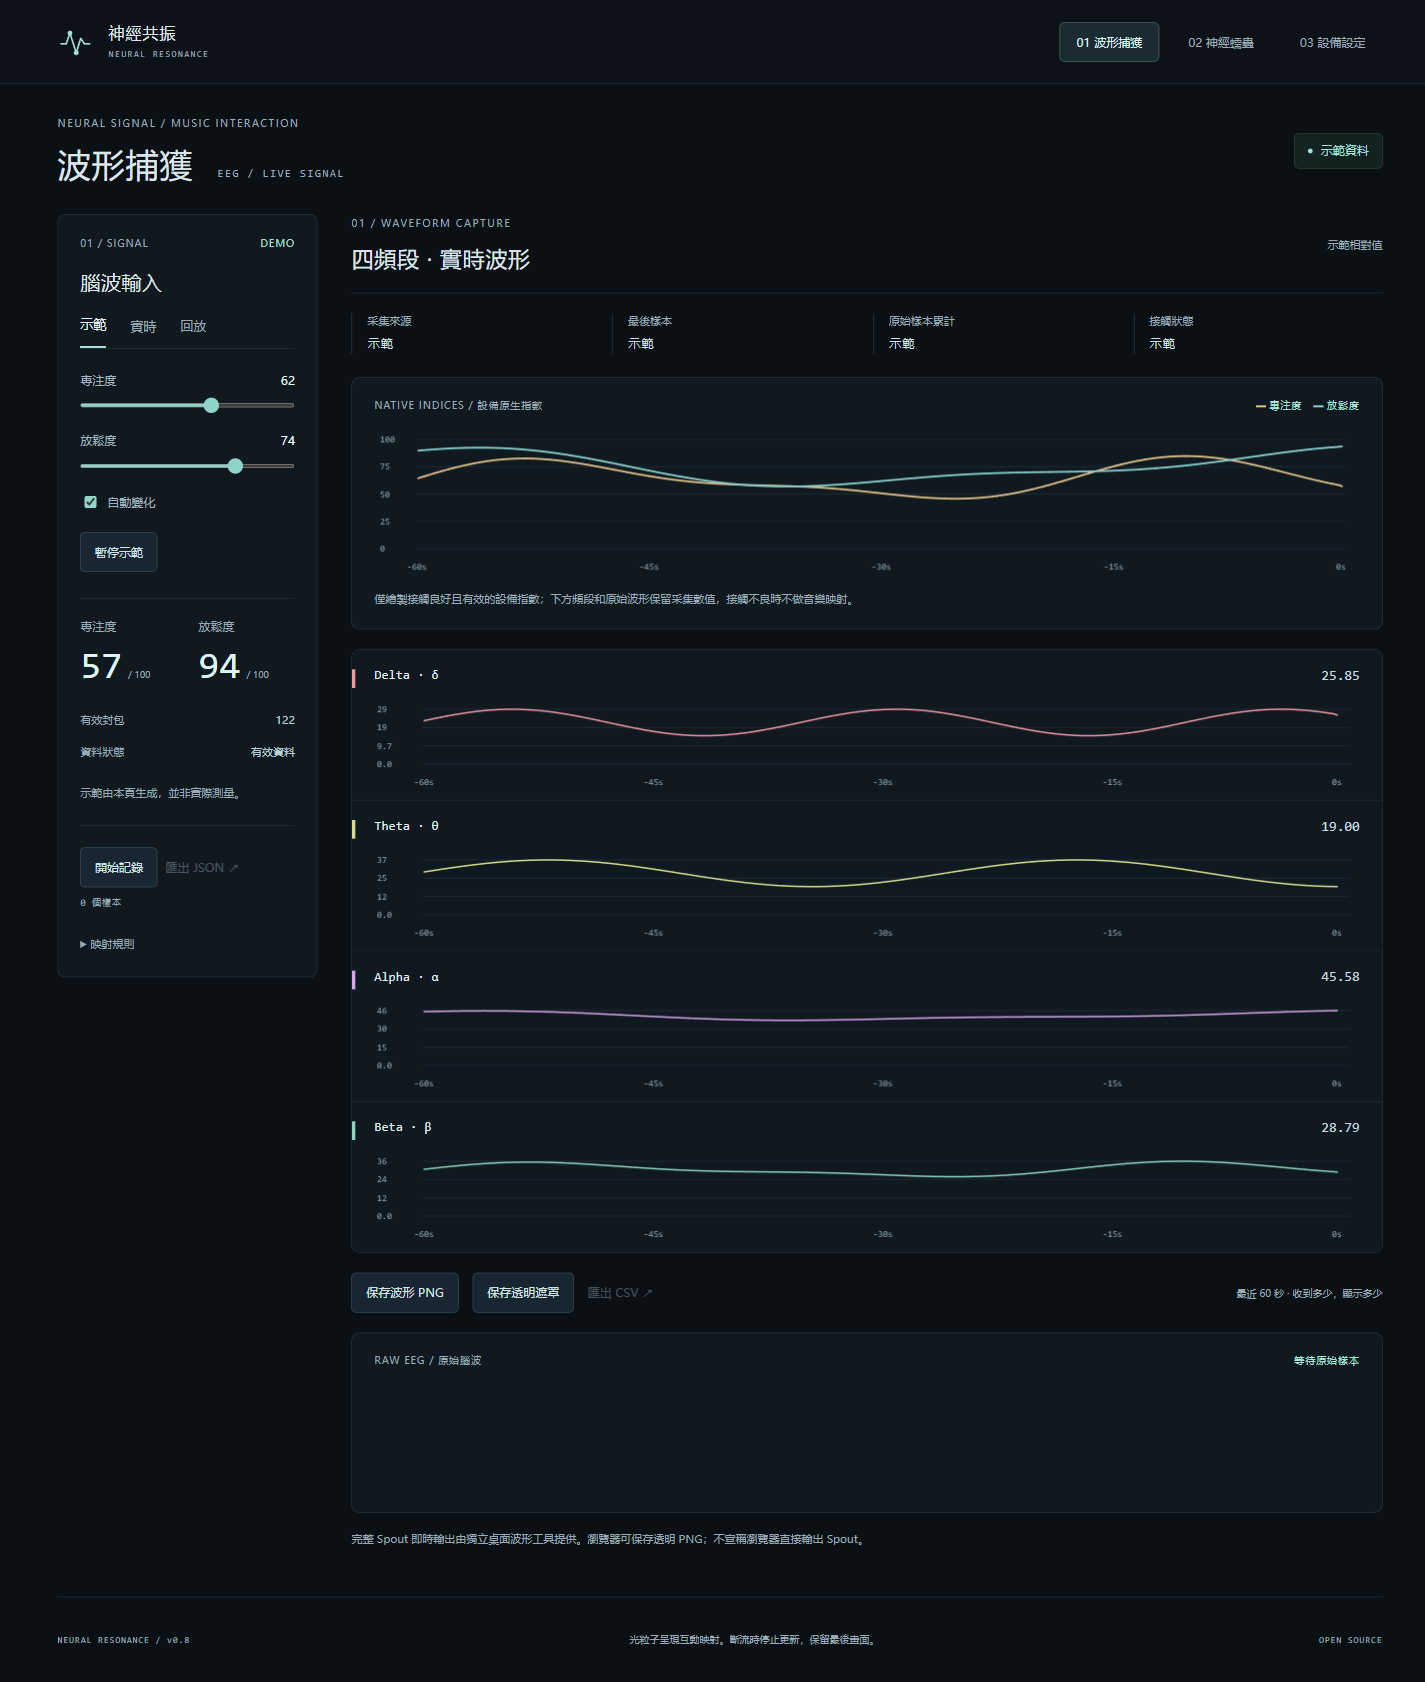
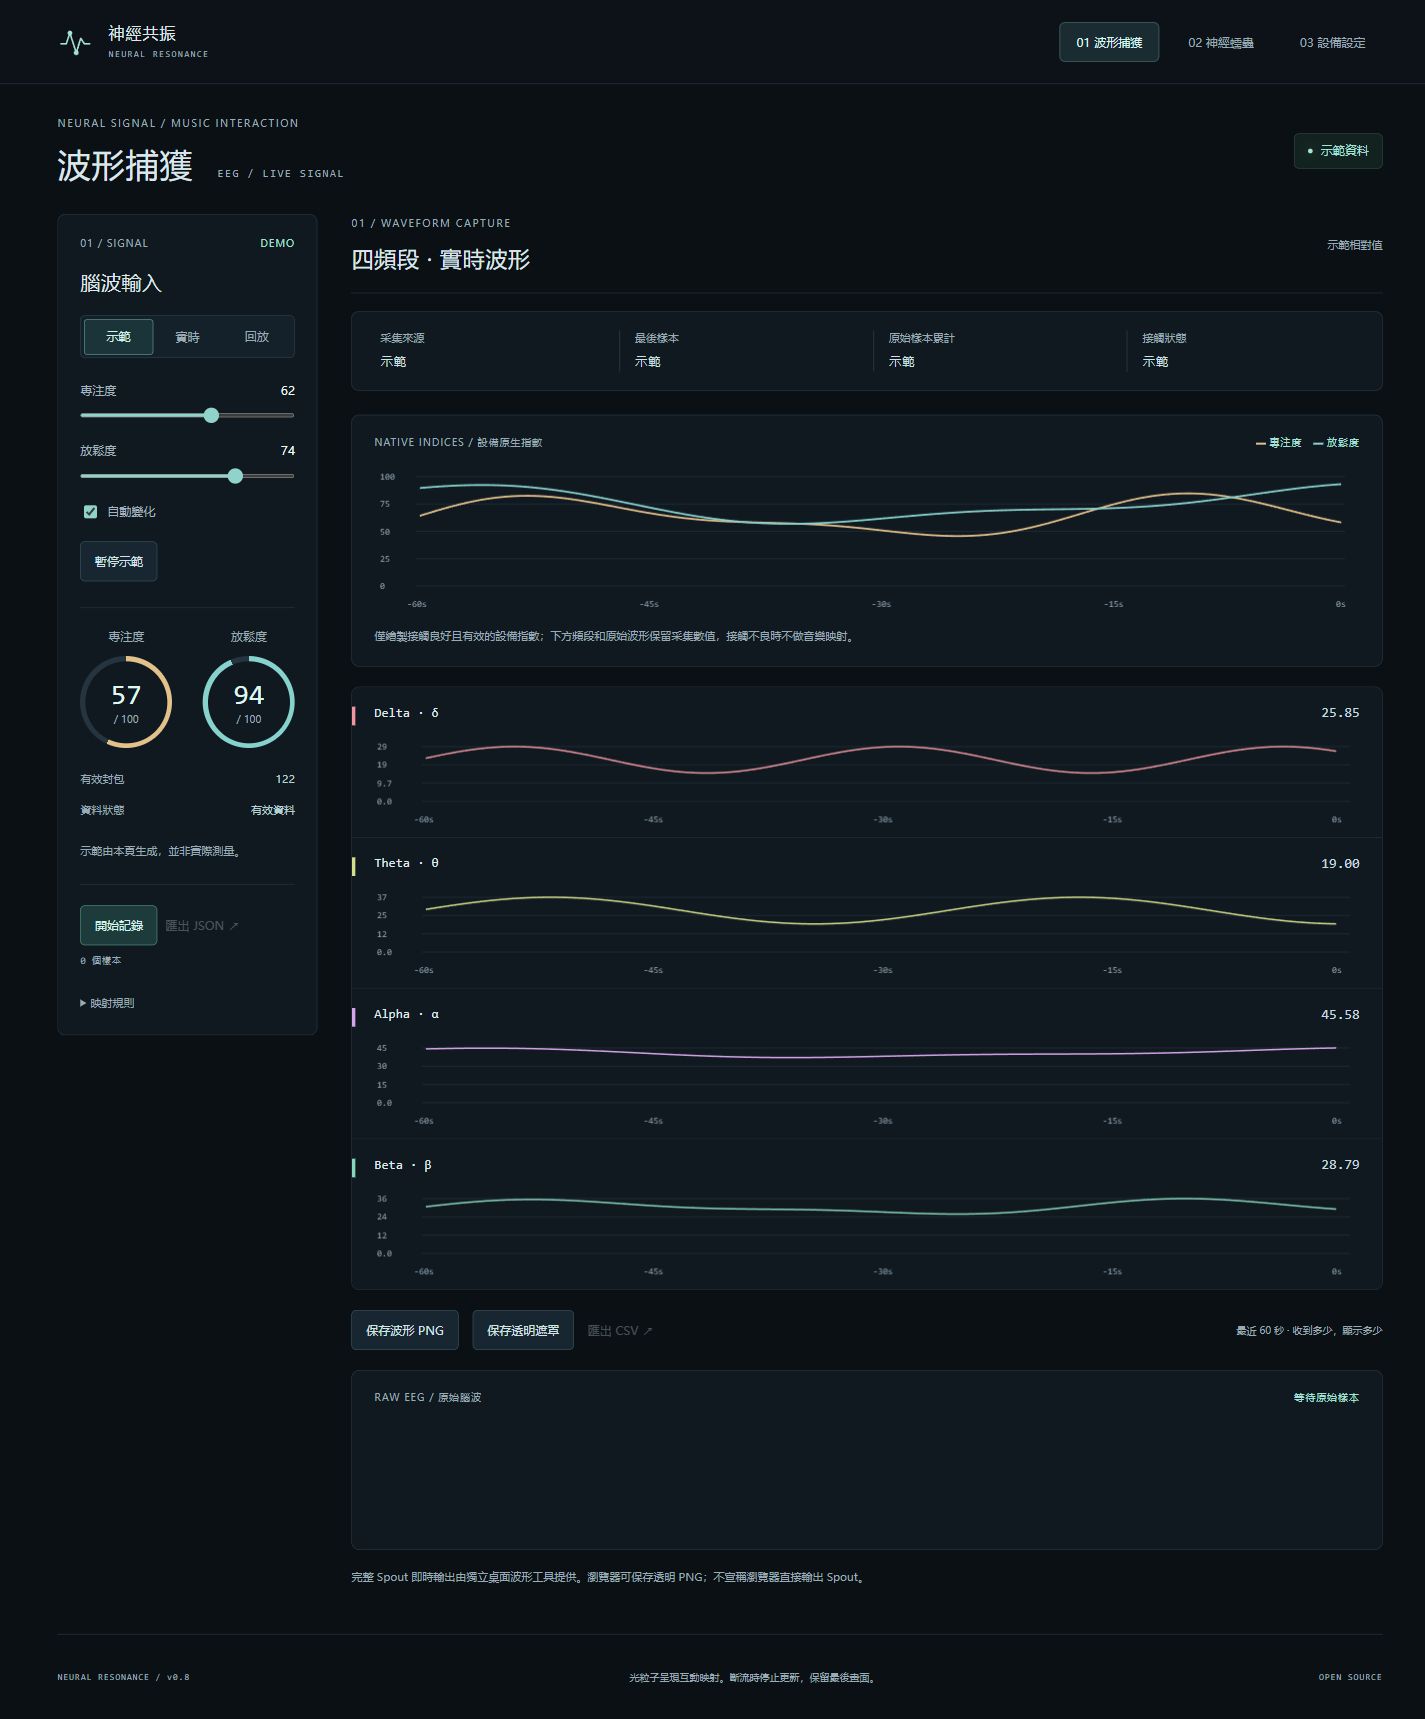
Apply verified Image 2.5 instrument design to portable console v0.8.1

diff --git a/neural-worm/style.css b/neural-worm/style.css
@@ -74,3 +74,22 @@ footer{font-size:9px;padding:26px 0}.bridge-guide h3{font-size:17px}.bridge-guid
 @media(min-width:1200px){.input{position:sticky;top:24px}}
 @media(max-width:1100px){.workspace{grid-template-columns:230px minmax(0,1fr);gap:24px}main,.header{padding-left:26px;padding-right:26px}.input{padding:18px}.stream-strip{grid-template-columns:repeat(2,minmax(0,1fr));row-gap:18px}.view-nav button{padding:11px 10px;font-size:11px}.heading h1{font-size:30px}}
 @media(max-width:700px){.header{min-height:102px;height:auto;padding:16px 18px 10px}.wordmark{font-size:14px;gap:10px}.wordmark small{font-size:8px}.view-nav{margin-top:5px;gap:5px!important}.view-nav button{font-size:11px;padding:10px 12px;min-height:40px}.heading{padding:26px 0 22px}.heading h1{font-size:28px}.heading .eyebrow{font-size:9px}main{padding:0 18px}.status{font-size:10px;padding:7px 9px}.workspace{grid-template-columns:1fr;gap:26px}.input{padding:20px;position:static;column-gap:18px}.input h2{font-size:19px}.readouts{margin-top:18px}.readouts strong{font-size:32px}.tabs{gap:28px;margin:20px 0 4px}.wave-head h2{font-size:20px}.stream-strip{gap:17px}.stream-strip div{padding-left:11px}.indices-section{padding:17px 12px 8px}.indices-section .section-line{flex-wrap:wrap;gap:10px}.indices-section p{font-size:10px}.wave-chart{padding:16px 12px 4px}.wave-chart canvas{height:115px}.wave-chart h3{font-size:12px}.raw-section{padding:18px 14px}.wave-actions{gap:9px}.wave-actions .outline{font-size:11px;padding:10px}.gateway-selects{grid-template-columns:1fr;gap:0}.sensor-overview{grid-template-columns:repeat(2,minmax(0,1fr))}.device-row{grid-template-columns:1fr;gap:5px}.setting-section{padding:19px}.prompt-handoff{padding:20px}.hero canvas{height:290px}.network{padding:12px}.network-head{font-size:11px}}
+
+/* GPT Image 2.5 design reference: instrument rings and segmented source bar.
+   Display values retain /100 and declared units; mockup measurements are not used. */
+.tabs{gap:0;background:#15212a;border:1px solid #2b3d48;border-radius:5px;padding:3px}
+.tabs button{flex:1;padding:9px 3px;border:1px solid transparent;border-radius:3px;font-size:12px}
+.tabs button[aria-pressed=true]{border:1px solid #60988f;background:#1a3439;color:#d5f1eb}
+.readouts{gap:17px;justify-content:space-between}
+.readouts>div{display:block;text-align:center;max-width:95px}
+.readouts>div>span{display:block;margin-bottom:12px}
+.readouts .native-gauge{position:relative;display:flex;align-items:center;justify-content:center;flex-direction:column;width:92px;height:92px;max-width:92px;border-radius:50%;background:conic-gradient(var(--gauge-color,#e2c18a) var(--progress,0deg),#25343f 0);gap:0}
+.native-gauge:before{content:"";position:absolute;inset:5px;border-radius:50%;background:var(--panel)}
+.readouts .native-gauge strong{position:relative;z-index:1;font-size:28px;line-height:1.25}
+.readouts .native-gauge small{position:relative;z-index:1;font-size:10px;line-height:1.5}
+#gauge-relaxation{--gauge-color:#88d2ce}
+.stream-strip{border:1px solid var(--line);border-radius:7px;background:var(--panel);padding:19px 13px;margin-top:18px}
+.stream-strip div:first-child{border-left:0}
+#record{background:#1e3b3b;border-color:#4d8b82;color:#d5f3eb}
+@media(max-width:1100px) and (min-width:701px){.readouts{gap:8px}.readouts .native-gauge{width:84px;height:84px;max-width:84px}}
+@media(max-width:700px){.readouts{flex-direction:column;align-items:center;gap:18px}.readouts .native-gauge{width:82px;height:82px;max-width:82px}.readouts .native-gauge strong{font-size:25px}.tabs{margin-top:18px;margin-bottom:10px}.stream-strip{padding:16px 7px}}

diff --git a/index.html b/index.html
@@ -27,7 +27,7 @@
           <button id="connect" class="outline">連接</button><button id="disconnect" class="text-button">停止連接</button>
         </div>
         <div id="replay-input" hidden><label for="replay-file">匯入 EEG JSON<input id="replay-file" type="file" accept=".json"></label><button id="replay-start" class="outline" disabled>播放記錄</button><button id="replay-stop" class="text-button">暫停</button><p id="replay-info"></p></div>
-<div class="readouts"><div><span>專注度</span><strong id="read-attention">—</strong><small>/ 100</small></div><div><span>放鬆度</span><strong id="read-relaxation">—</strong><small>/ 100</small></div></div>
+<div class="readouts"><div><span>專注度</span><div class="native-gauge" id="gauge-attention"><strong id="read-attention">—</strong><small>/ 100</small></div></div><div><span>放鬆度</span><div class="native-gauge" id="gauge-relaxation"><strong id="read-relaxation">—</strong><small>/ 100</small></div></div></div>
         <div class="signal-meta"><span>有效封包</span><b id="packets">—</b><span>資料狀態</span><b id="freshness">等待</b></div>
         <p id="source-note">示範由本頁生成，並非實際測量。</p>
         <div class="capture"><button id="record" class="outline">開始記錄</button><button id="export" class="text-button" disabled>匯出 JSON ↗</button><span id="count">0 個樣本</span></div>

diff --git a/gateway/device_gateway.py b/gateway/device_gateway.py
@@ -255,7 +255,7 @@ def create_app(acquisition, config_path, upstream=None):
     sockets = set()
 
     async def health(_request):
-        return web.json_response({"app": "neural-resonance-gateway", "version": "0.8.0",
+        return web.json_response({"app": "neural-resonance-gateway", "version": "0.8.1",
                                   "standalone": True, "upstream": bool(upstream),
                                   "platform": sys.platform})
 

diff --git a/docs/design/README.md b/docs/design/README.md
@@ -1,0 +1,15 @@
+# GPT Image 2.5设计参考
+
+通过用户指定的Suno HK页面选择GPT Image 2.5，实际提交并下载的设计图：
+
+![设计参考](image25-neural-resonance-1-preview.jpg)
+
+原图为1672×941像素，16:9构图。`image25-provenance.json`记录文件哈希与来源。
+
+应用到前端的部分：深石墨与青白仪器风格、双环原生读数、分段来源按钮、状态栏和四条纵向通道。
+
+不应用示例日期、采样率、µV及模型绘出的健康状态。前端始终使用真实字段及单位；缺失显示破折号，示范明确标记为示范。原图是一张设计稿，不是设备测量或软件截图。
+
+## 提示词
+
+High-fidelity desktop web UI for NEURAL RESONANCE, an EEG music research instrument. Dark graphite #0b1015, slate panels #101820, pale cyan-white typography, restrained mint accent. Elegant scientific instrument, precise spacing, no purple gradients, no theme switch. Exactly three top navigation items: 01 波形捕獲, 02 神經蠕蟲, 03 設備設定. Compact left panel with source tabs 示範 實時 回放, native readings 專注度 and 放鬆度, record controls. Large right instrument: source/contact/sample status strip, two native index traces, then FOUR vertically stacked full-width channels Delta Theta Alpha Beta with pink olive lilac mint traces, subtle axes and channel units. Display transparent real data gaps and waiting states. Luxurious yet usable research software, professional flat interface, readable Traditional Chinese, clean alignment, generous breathing room. No invented medical diagnosis, no advertising, no fake 3D browser, no decorative photos. Design one coherent screen.

diff --git a/DESIGN.md b/DESIGN.md
@@ -20,7 +20,7 @@ components: navigation, acquisition rail, waveforms, particle networks, inventor
 
 深色科研乐器风格，优先读懂信号、来源和设备状态。波形捕获、神经蠕虫、设备设置三个页面固定；切换不销毁同一数据连接。
 
-本轮视觉来源为既有四频段结构与本规范。image2.5设计稿等待可用的已登录生成入口，未将HTML截图标为模型生成。
+视觉来源为既有四频段结构、Suno HK中GPT Image 2.5实际生成的设计稿与本规范。原图、预览与哈希记录保存在`docs/design/`。采用双环原生读数、分段来源按钮及紧凑状态栏；不采用模型图片中的示例日期、256Hz、µV、健康等级或测量值。
 
 ## Colors
 
